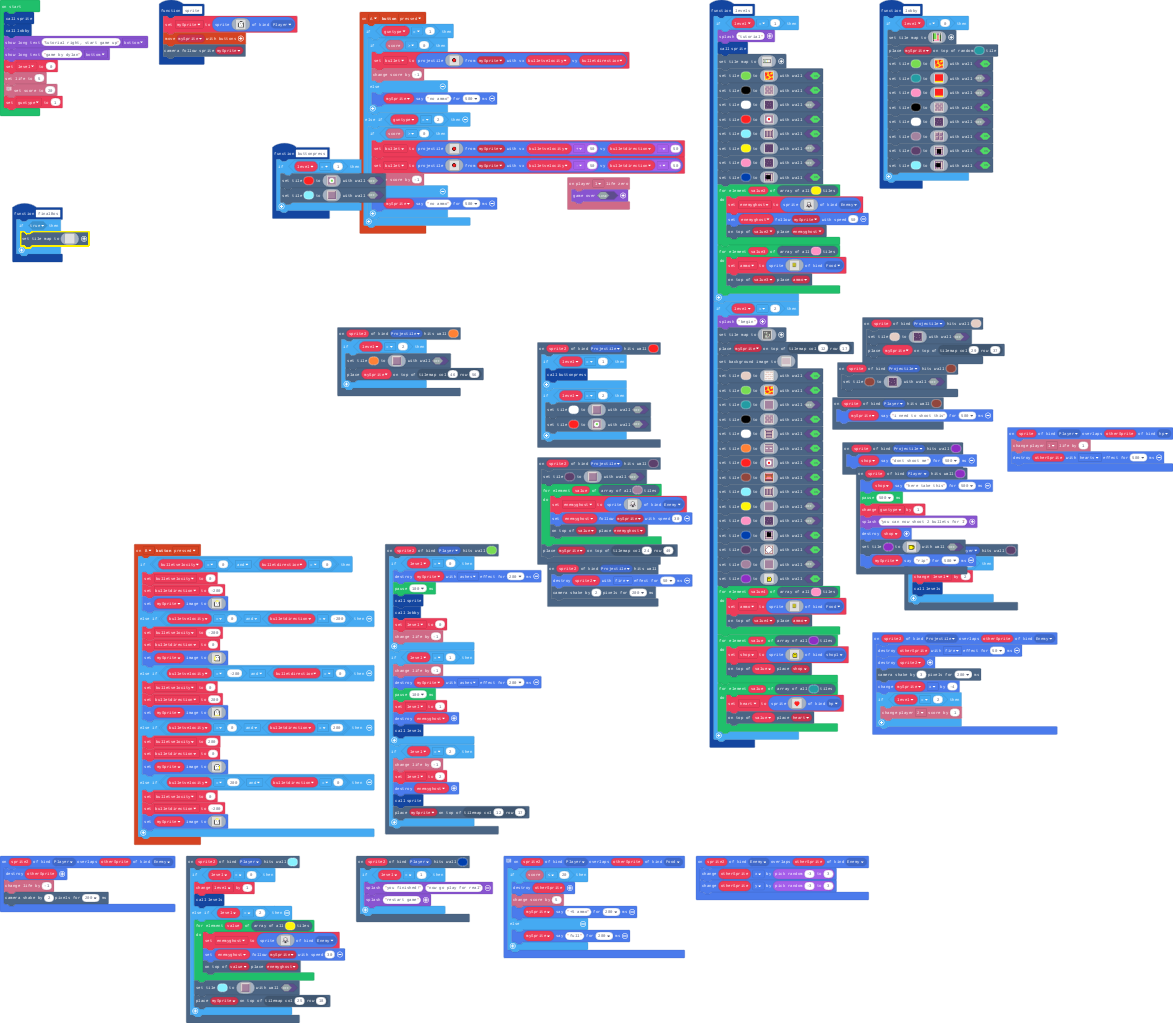
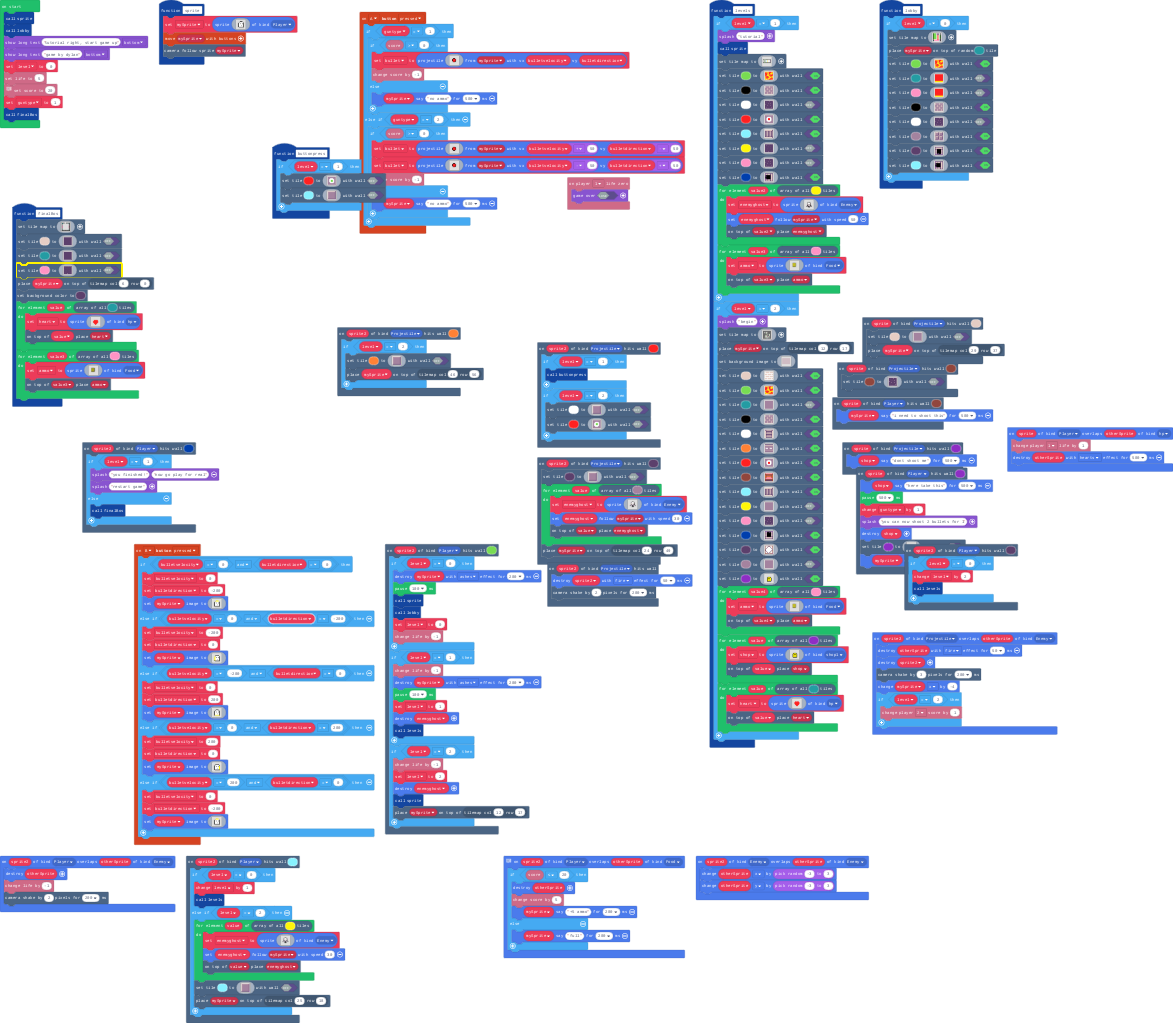
entrance

diff --git a/main.ts b/main.ts
@@ -101,20 +101,6 @@ function sprite () {
     controller.moveSprite(mySprite)
     scene.cameraFollowSprite(mySprite)
 }
-function finalBos () {
-    if (true) {
-        scene.setTileMap(img`
-. . . . . . . . . . 
-. . . . . . . . . . 
-. . . . . . . . . . 
-. . . . . . . . . . 
-. . . . . . . . . . 
-. . . . . . . . . . 
-. . . . . . . . . . 
-. . . . . . . . . . 
-`)
-    }
-}
 function buttonpress () {
     if (level == 1) {
         scene.setTile(2, img`
@@ -203,22 +189,22 @@ c c c c c c c c c c c c c c c a
 })
 scene.onHitTile(SpriteKind.Projectile, 13, function (sprite2) {
     scene.setTile(13, img`
-c c c c c c c c c c c c c c c c 
-c c c c c c c c c b c c c c b c 
-c c b c c c c c c c c c c c c c 
-c c c c c c c c c c c c c c c c 
-c c c c c c c c c c c c c c c c 
-c c c c c c b c c c c b c c c c 
-c c c c c c c c c c c c c c c c 
-c b c c c c c c c c c c c c c c 
-c c c c c c c c c c c c c c c c 
-c c c c c b c c c c c b c c c c 
-c c c c c c c c c c c c c c c c 
-c c c c c c c c c c c c c c c c 
-c c c c c c c c c c c c c c c c 
-c c b c c c c c c c c c c b c c 
-c c c c c c c b c c c c c c c c 
-c c c c c c c c c c c c c c c c 
+b b b b b b b b b b b b b b b b 
+b b b b b b b b b b b b b b b b 
+b b b b b b b b b b b b b b b b 
+b b b b b b b b b b b b b b b b 
+b b b b b b b b b b b b b b b b 
+b b b b b b b b b b b b b b b b 
+b b b b b b b b b b b b b b b b 
+b b b b b b b b b b b b b b b b 
+b b b b b b b b b b b b b b b b 
+b b b b b b b b b b b b b b b b 
+b b b b b b b b b b b b b b b b 
+b b b b b b b b b b b b b b b b 
+b b b b b b b b b b b b b b b b 
+b b b b b b b b b b b b b b b b 
+b b b b b b b b b b b b b b b b 
+b b b b b b b b b b b b b b b b 
 `, false)
     tiles.placeOnTile(mySprite, tiles.getTileLocation(29, 37))
 })
@@ -346,10 +332,136 @@ sprites.onOverlap(SpriteKind.Player, SpriteKind.Food, function (sprite2, otherSp
         mySprite.say("full", 200)
     }
 })
+function finalBos () {
+    scene.setTileMap(img`
+f f f f f . . f f f f f f f 
+f 6 . . . . . . . . . . 6 f 
+f . . . . . . . . . . . . f 
+f . . . . . . . . . . . . f 
+f . . . . . . . . . . . . f 
+f 3 . . . . . . . . . . 3 f 
+f 3 . . . . . . . . . . 3 f 
+f 3 . . . . . . . . . . 3 f 
+f 3 . . . . . . . . . . 3 f 
+f . . . . . . . . . . . . f 
+f . . . . . . . . . . . . f 
+f . . . . . . . . . . . . f 
+f 6 . . . . d . . . . . 6 f 
+f f f f f f f f f f f f f f 
+`)
+    scene.setTile(13, img`
+c c c c c c c c c c c c c c c c 
+c c c c c c c c c c c c c c c c 
+c c c c c c c c c c c c c c c c 
+c c c c c c c c c c c c c c c c 
+c c c c c c c c c c c c c c c c 
+c c c c c c c c c c c c c c c c 
+c c c c c c c c c c c c c c c c 
+c c c c c c c c c c c c c c c c 
+c c c c c c c c c c c c c c c c 
+c c c c c c c c c c c c c c c c 
+c c c c c c c c c c c c c c c c 
+c c c c c c c c c c c c c c c c 
+c c c c c c c c c c c c c c c c 
+c c c c c c c c c c c c c c c c 
+c c c c c c c c c c c c c c c c 
+c c c c c c c c c c c c c c c c 
+`, false)
+    scene.setTile(6, img`
+c c c c c c c c c c c c c c c c 
+c c c c c c c c c c c c c c c c 
+c c c c c c c c c c c c c c c c 
+c c c c c c c c c c c c c c c c 
+c c c c c c c c c c c c c c c c 
+c c c c c c c c c c c c c c c c 
+c c c c c c c c c c c c c c c c 
+c c c c c c c c c c c c c c c c 
+c c c c c c c c c c c c c c c c 
+c c c c c c c c c c c c c c c c 
+c c c c c c c c c c c c c c c c 
+c c c c c c c c c c c c c c c c 
+c c c c c c c c c c c c c c c c 
+c c c c c c c c c c c c c c c c 
+c c c c c c c c c c c c c c c c 
+c c c c c c c c c c c c c c c c 
+`, false)
+    scene.setTile(3, img`
+c c c c c c c c c c c c c c c c 
+c c c c c c c c c b c c c c b c 
+c c b c c c c c c c c c c c c c 
+c c c c c c c c c c c c c c c c 
+c c c c c c c c c c c c c c c c 
+c c c c c c b c c c c b c c c c 
+c c c c c c c c c c c c c c c c 
+c b c c c c c c c c c c c c c c 
+c c c c c c c c c c c c c c c c 
+c c c c c b c c c c c b c c c c 
+c c c c c c c c c c c c c c c c 
+c c c c c c c c c c c c c c c c 
+c c c c c c c c c c c c c c c c 
+c c b c c c c c c c c c c b c c 
+c c c c c c c b c c c c c c c c 
+c c c c c c c c c c c c c c c c 
+`, false)
+    tiles.placeOnTile(mySprite, tiles.getTileLocation(6, 0))
+    scene.setBackgroundColor(12)
+    for (let value of scene.getTilesByType(6)) {
+        heart = sprites.create(img`
+. . . . . . . . . . . . . . . . 
+. . . . . . . . . . . . . . . . 
+. . . . . . . . . . . . . . . . 
+. . . . . . . . . . . . . . . . 
+. . . . . 2 2 . . 2 2 . . . . . 
+. . . . 2 2 2 2 2 2 2 2 . . . . 
+. . . 2 2 2 2 2 2 2 2 2 2 . . . 
+. . . 2 2 2 2 2 2 2 2 2 2 . . . 
+. . . 2 2 2 2 2 2 2 2 2 2 . . . 
+. . . 2 2 2 2 2 2 2 2 2 2 . . . 
+. . . . 2 2 2 2 2 2 2 2 . . . . 
+. . . . . 2 2 2 2 2 2 . . . . . 
+. . . . . . 2 2 2 2 . . . . . . 
+. . . . . . . 2 2 . . . . . . . 
+. . . . . . . . . . . . . . . . 
+. . . . . . . . . . . . . . . . 
+`, SpriteKind.hp)
+        scene.place(value, heart)
+    }
+    for (let value3 of scene.getTilesByType(3)) {
+        ammo = sprites.create(img`
+. . . . . . . . . . . . . . . . . . . . . . . . 
+. . . . . . . . . . . . . . . . . . . . . . . . 
+. . . . . . . . . . . . . . . . . . . . . . . . 
+. . . . . . . . . . . . . . . . . . . . . . . . 
+. . . . . . . . . . . . . . . . . . . . . . . . 
+. . . . . . f f f f f f f f f f . . . . . . . . 
+. . . . . . f 5 5 f 5 5 f 5 5 f . . . . . . . . 
+. . . . . . f 5 5 f 5 5 f 5 5 f . . . . . . . . 
+. . . . . . f 5 5 f 5 5 f 5 5 f . . . . . . . . 
+. . . . . . f 5 5 f 5 5 f 5 5 f . . . . . . . . 
+. . . . . . f 5 5 f 5 5 f 5 5 f . . . . . . . . 
+. . . . . . f 5 5 f 5 5 f 5 5 f . . . . . . . . 
+. . . . . . f 5 5 f 5 5 f 5 5 f . . . . . . . . 
+. . . . . . f 5 5 f 5 5 f 5 5 f . . . . . . . . 
+. . . . . . f 5 5 f 5 5 f 5 5 f . . . . . . . . 
+. . . . . . f 5 5 f 5 5 f 5 5 f . . . . . . . . 
+. . . . . . . f f . f f . f f . . . . . . . . . 
+. . . . . . . . . . . . . . . . . . . . . . . . 
+. . . . . . . . . . . . . . . . . . . . . . . . 
+. . . . . . . . . . . . . . . . . . . . . . . . 
+. . . . . . . . . . . . . . . . . . . . . . . . 
+. . . . . . . . . . . . . . . . . . . . . . . . 
+. . . . . . . . . . . . . . . . . . . . . . . . 
+. . . . . . . . . . . . . . . . . . . . . . . . 
+`, SpriteKind.Food)
+        scene.place(value3, ammo)
+    }
+}
 scene.onHitTile(SpriteKind.Player, 8, function (sprite2) {
     if (level == 1) {
         game.splash("you finished!", "now go play for real")
         game.splash("restart game")
+    } else {
+        finalBos()
     }
 })
 sprites.onOverlap(SpriteKind.Projectile, SpriteKind.Enemy, function (sprite2, otherSprite) {
@@ -727,7 +839,7 @@ f f f f f f f f f f f f f f f f f f f f f f f f f f f f f f f f f f f f f e e f 
 f f f f f f f f f f f f f f f f f f f f f f f f f f f f f f f f f f f f f e e f f f f f f f f f 7 . . . . . . 7 f f f f f f f f 
 f f f f f f f f f f f f f f f f f f f f f f f f f f f f f f f f f f f f f . . f f f f f f f f f 7 . . . . . . 7 f f f f f f f f 
 f f f f f f f f f f f f f f f f f f f 7 7 7 7 7 7 7 7 . 5 5 5 f f f f f f . . f f f f f f f f f 7 . . . . . . 7 f f f f f f f f 
-f f f f f f f f f f f f f f f f f f f 7 7 7 7 7 7 7 . . . . . f f f f f f . . f f f f f f f f f 7 . . . . . . 7 f f f f f f f f 
+f f f f f f f f f f f f f f f f f f f 7 7 7 7 7 7 7 . d d d d f f f f f f . . f f f f f f f f f 7 . . . . . . 7 f f f f f f f f 
 f f f f f f f f f f f f f f f f f f f 7 7 7 7 7 7 . . . . . . . . d d . . . . f f f f f f f f f 7 . . . a . . 7 f f f f f f f f 
 f f f f f f f f f f f f f f f f f f f 7 7 7 7 5 5 d . . . . . . . d d . . . . f f f f f f f f f 7 7 . . 3 . . 7 f f f f f f f f 
 f f f f f f f f f f f f f f f f f f f 7 7 . . 5 5 d . . . . . . . d d . . . . f f f f f f f f f f 7 . . . . . 7 f f f f f f f f 
@@ -739,8 +851,8 @@ f f f f f f f f f f f f f f f f f f f 7 . . f f f f f f f f f f f f f f f f f f 
 f f f f f f f f f f f f f f f f f f f c c c . . . . . . . . . . . f f f f f f f f f f f f f f f f f 7 7 7 7 f f f f f f f f f f 
 f f f f f f f f f f f f f f f f f f f c c c b . . . b . . . b . . f f f f f f f f f f f f f f f f f f 7 7 f f f f f f f f f f f 
 f f f f f f f f f f f f f f f f f f f b . . . . b . . . b . . . b f f f f f f f f f . 2 . . . . . . . 3 3 f f f f f f f f f f f 
-f f f f f f f f f f f f f f f . . 1 1 . . . b . . . b . . . b . . f f f f f f f f f b . b . b . b . b 3 3 f f f f f f f f f f f 
-f f f f f f f f f f f f f f f . . 1 1 . b . . . . . . . . . . . . . 4 4 4 4 4 4 4 . . . . . . . . . . f f f f f f f f f f f f f 
+f f f f f f f f f f f f f f f 3 . 1 1 . . . b . . . b . . . b . . f f f f f f f f f b . b . b . b . b 3 3 f f f f f f f f f f f 
+f f f f f f f f f f f f f f f 3 . 1 1 . b . . . . . . . . . . . . . 4 4 4 4 4 4 4 . . . . . . . . . . f f f f f f f f f f f f f 
 f f f f f f f f f f f f f f f . . f f f . . . . . . . . . b . b . . 4 4 4 4 4 4 4 . . b . b . b . b . f f f f f f f f f f f f f 
 f f f f f f f f f f f f f f f . . f 7 f 3 . . . . . . . . . . . 3 f f f f f f f f f . . . . . . . . . f f f f f f f f f f f f f 
 f f f f f f f f f f f f f f f . . f 7 f 3 . . . . . . . . . . . 3 f 7 7 7 7 7 7 7 f b . b . b . b . b f f f f f f f f f f f f f 
@@ -1521,10 +1633,10 @@ b b b b b b b b b b b b b b b b
 `, false)
     }
 })
-let heart: Sprite = null
-let ammo: Sprite = null
 let bullet: Sprite = null
 let shop: Sprite = null
+let ammo: Sprite = null
+let heart: Sprite = null
 let bulletdirection = 0
 let bulletvelocity = 0
 let mySprite: Sprite = null
@@ -1540,3 +1652,4 @@ info.setLife(5)
 // ammo
 info.setScore(20)
 guntype = 1
+finalBos()
